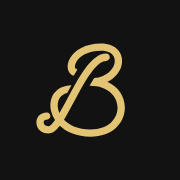
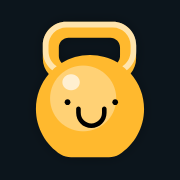
Replace blurred hero photo with kettlebell illustration
Pulled the "happy kettlebell" illustration from Figma
(UTRGSW1tEkES9G1OfISZCu, node 2861:105) and use it as the Home Screen
background — a small mascot centered in the viewport on a solid
background, not a full-bleed blurred photo. This sidesteps every mobile
Safari viewport/safe-area edge case the photo needed workarounds for,
since a solid color has no edges to miss. Also swaps it in as the
Home Screen (apple-touch-icon) icon, replacing the placeholder "B"
monogram.

diff --git a/src/index.css b/src/index.css
@@ -38,32 +38,29 @@ body {
 }
 
 /* Home Workouts background — fixed to the actual viewport (not tied to
-   .screen's box or scroll height), so the photo is the backdrop for the
-   whole page, not just a bounded top strip: it stays put and shows through
-   behind the greeting and the workout list alike, including any empty
-   space below a short list. z-index:-1 is what keeps it behind ordinary
-   in-flow content without needing every other element to opt into its own
-   stacking context.
-
-   Split into two layers deliberately: iOS PWAs (Home Screen standalone
-   mode) were still clipping the bottom edge even with generous negative
-   insets directly on a filtered fixed element — a filter plus negative
-   offsets on the same fixed-positioned box appears to confuse WebKit's
-   compositing bounds for that box. Keeping the fixed anchor plain
-   (inset:0, no filter) and putting the filter + overscan on an absolutely
-   positioned child inside it sidesteps that. */
+   .screen's box or scroll height), so it stays put behind the greeting and
+   the workout list alike, including any empty space below a short list.
+   z-index:-1 keeps it behind ordinary in-flow content without needing every
+   other element to opt into its own stacking context. A solid fill (rather
+   than the earlier full-bleed photo) sidesteps every mobile-viewport edge
+   case that photo needed workarounds for — a flat color has no edges to
+   miss, so plain inset:0 is genuinely enough here. */
 .home-page-bg-frame {
   position: fixed;
   inset: 0;
   z-index: -1;
+  background: var(--bg);
+  display: flex;
+  align-items: center;
+  justify-content: center;
 }
 
 .home-page-bg {
-  position: absolute;
-  inset: -15%;
-  background-size: cover;
-  background-position: center 35%;
-  filter: blur(7px) brightness(0.5) saturate(0.9);
+  width: min(60vw, 320px);
+  height: min(60vw, 320px);
+  background-repeat: no-repeat;
+  background-position: center;
+  background-size: contain;
 }
 
 .home-hero {

diff --git a/src/screens/HomeWorkoutList.tsx b/src/screens/HomeWorkoutList.tsx
@@ -4,7 +4,7 @@ import { lastCompletedDate } from "../lib/completions";
 import { formatDate } from "../lib/format";
 import { useData } from "../lib/DataContext";
 import type { Workout } from "../types";
-import heroImage from "../assets/home-hero.jpg";
+import kettlebellIllustration from "../assets/happy-kettlebell.svg";
 
 function getGreeting(): string {
   const hour = new Date().getHours();
@@ -28,7 +28,7 @@ export default function HomeWorkoutList() {
   return (
     <div className="screen">
       <div className="home-page-bg-frame" aria-hidden="true">
-        <div className="home-page-bg" style={{ backgroundImage: `url(${heroImage})` }} />
+        <div className="home-page-bg" style={{ backgroundImage: `url(${kettlebellIllustration})` }} />
       </div>
       <div className="home-hero">
         <div className="home-hero-greeting">

diff --git a/PRD.md b/PRD.md
@@ -24,7 +24,8 @@ Originally planned as its own landing screen ahead of the workout list — a "We
 
 The root screen (`/`) — a hero banner directly above the workout list, both on one page rather than a separate landing screen (see §1):
 
-- **Hero:** a time-of-day greeting ("Good morning" / "Good afternoon" / "Good evening"), `profile.name`, over a blurred, darkened background photo for legibility. Below it, two tab-style CTAs — **Home Workout** and **Gym Workout** — that switch which list renders below (and scroll to it, since the list is on this same page). Whichever is active renders filled/primary; the other renders as a plain secondary button. Both are real tabs now, not a "coming soon" placeholder — see §12 for what actually differs between the two.
+- **Hero:** a time-of-day greeting ("Good morning" / "Good afternoon" / "Good evening"), `profile.name`. Below it, two tab-style CTAs — **Home Workout** and **Gym Workout** — that switch which list renders below (and scroll to it, since the list is on this same page). Whichever is active renders filled/primary; the other renders as a plain secondary button. Both are real tabs now, not a "coming soon" placeholder — see §12 for what actually differs between the two.
+- **Background:** a small illustrated mascot (a smiling kettlebell, sourced from Figma) centered in the viewport, fixed behind the greeting/tabs/list — not a full-bleed photo. Replaced an earlier blurred/darkened photo treatment, which needed real workarounds for mobile Safari viewport edge cases (see git history) that a plain centered illustration on a solid background doesn't run into at all. The same illustration is the app's Home Screen icon (`public/apple-touch-icon.png`).
 - **List:** the active tab's saved workouts. Each row shows:
   - Name (renaming happens via Edit Workout — §9 — not inline on this list)
   - Last completed date (derived from completion log; "never" if none yet)
